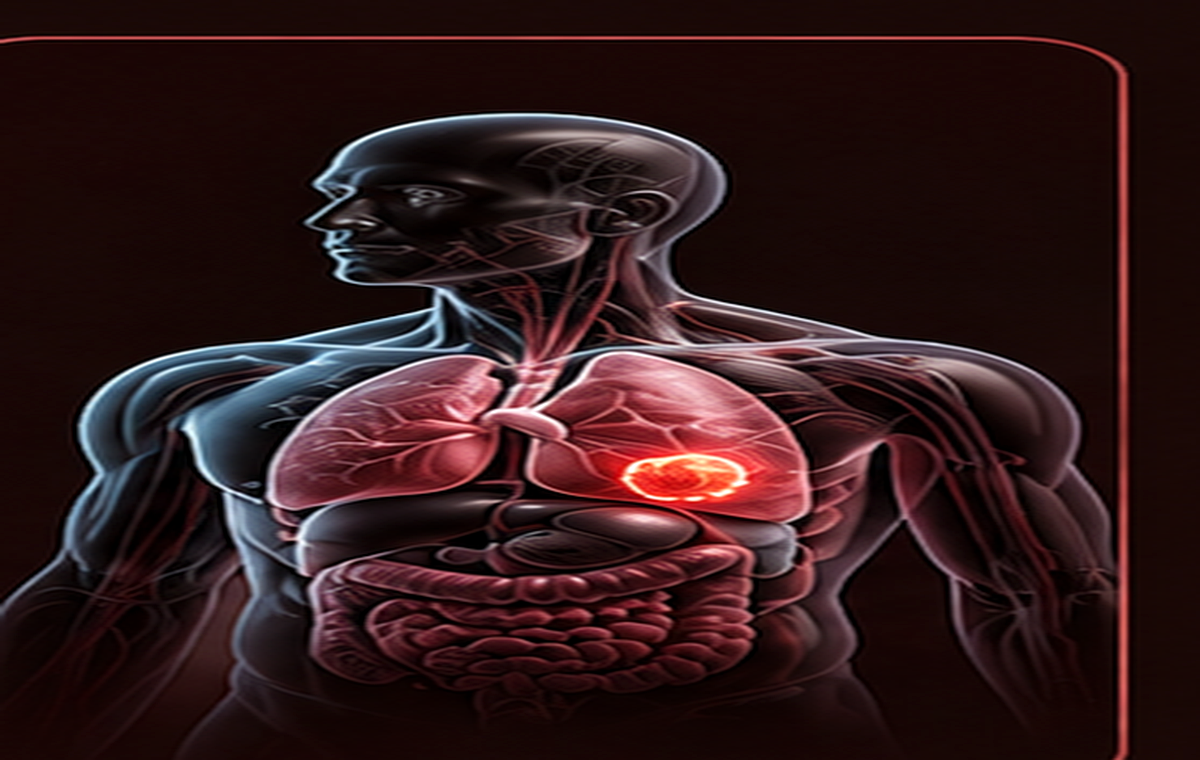
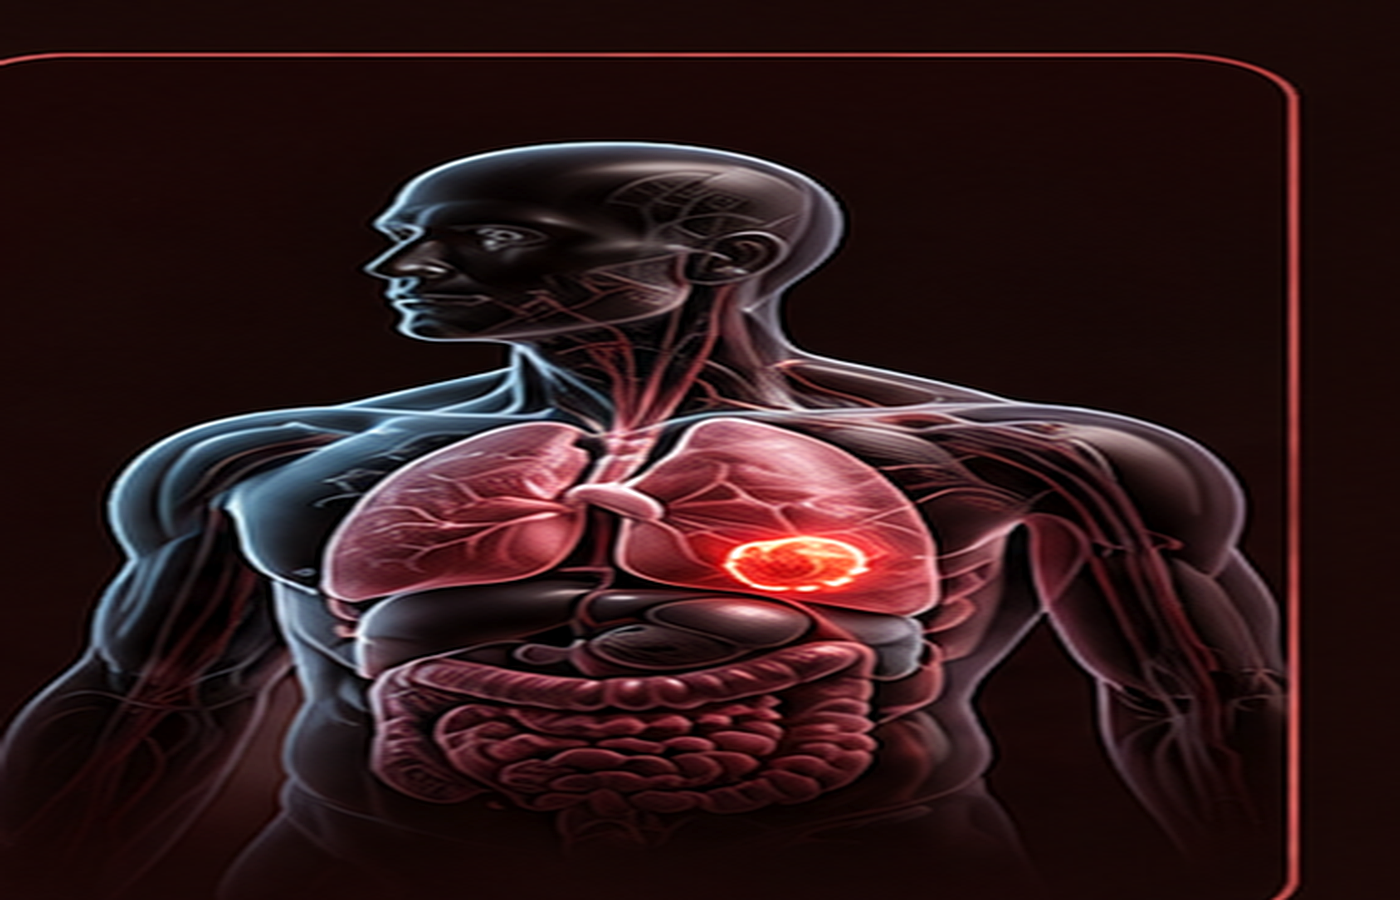
Refine homepage destination card media

Changed region(s): [[0.0, 0.0303, 0.9558, 1.0]]

diff --git a/styles.css b/styles.css
@@ -565,4 +565,16 @@ body:not(.approved-home) .filter-bar a:hover,body:not(.approved-home) .filter-ba
 .knowledge-card--with-media>div,.knowledge-card--with-media .text-link{margin-top:14px;padding-top:0}
 @media(max-width:700px){.knowledge-card--with-media{min-height:0;padding-top:178px}.knowledge-card__media{height:156px}.knowledge-card__media img{object-position:center}}
 
+/* Homepage destination cards: unified cinematic artwork integration. */
+.approved-discovery__card{background:linear-gradient(165deg,#4a070b 0%,#270306 42%,#160102 100%)}
+.approved-discovery__media,.approved-discovery__card--library .approved-discovery__media,.approved-discovery__card--courses .approved-discovery__media,.approved-discovery__card--videos .approved-discovery__media,.approved-discovery__card--ebooks .approved-discovery__media,.approved-discovery__card--ai .approved-discovery__media{top:-1px;right:-1px;left:-1px;bottom:auto;width:auto;height:45%;border-radius:17px 17px 0 0;background-repeat:no-repeat;background-size:112% auto;background-position:center 48%;filter:none}
+.approved-discovery__media::after,.approved-discovery .approved-discovery__card .approved-discovery__media::after{position:absolute;inset:-1px;content:"";background:linear-gradient(180deg,rgba(22,1,3,.36) 0%,rgba(22,1,3,0) 17%,rgba(22,1,3,0) 48%,rgba(32,2,5,.56) 76%,#180204 100%),linear-gradient(90deg,#180204 0%,rgba(24,2,4,.48) 8%,rgba(24,2,4,0) 24%,rgba(24,2,4,0) 76%,rgba(24,2,4,.5) 92%,#180204 100%),radial-gradient(ellipse at 50% 28%,rgba(255,116,101,.11),rgba(255,116,101,0) 58%)}
+.approved-discovery__card::after{background:linear-gradient(180deg,rgba(27,2,4,0) 0%,rgba(28,2,5,.08) 28%,rgba(30,2,5,.9) 51%,rgba(24,2,4,1) 72%)}
+.approved-discovery__card--library .approved-discovery__media{background-position:center 46%}
+.approved-discovery__card--courses .approved-discovery__media{background-position:center 50%}
+.approved-discovery__card--videos .approved-discovery__media{background-position:center 46%}
+.approved-discovery__card--ebooks .approved-discovery__media{background-position:center 48%}
+.approved-discovery__card--ai .approved-discovery__media{background-position:center 43%}
+@media(max-width:560px){.approved-discovery__media,.approved-discovery__card--library .approved-discovery__media,.approved-discovery__card--courses .approved-discovery__media,.approved-discovery__card--videos .approved-discovery__media,.approved-discovery__card--ebooks .approved-discovery__media,.approved-discovery__card--ai .approved-discovery__media{top:-1px;right:0;left:auto;width:138px;height:100%;border-radius:0 14px 14px 0;background-size:auto 108%;background-position:center}.approved-discovery__media::after,.approved-discovery .approved-discovery__card .approved-discovery__media::after{background:linear-gradient(90deg,#190204 0%,rgba(25,2,4,.76) 13%,rgba(25,2,4,.18) 42%,rgba(25,2,4,.28) 78%,#190204 100%),linear-gradient(180deg,#190204 0%,rgba(25,2,4,0) 14%,rgba(25,2,4,0) 80%,#190204 100%)}.approved-discovery__card--library .approved-discovery__media{background-position:50% 48%}.approved-discovery__card--courses .approved-discovery__media{background-position:50% 50%}.approved-discovery__card--videos .approved-discovery__media{background-position:50% 47%}.approved-discovery__card--ebooks .approved-discovery__media{background-position:50% 47%}.approved-discovery__card--ai .approved-discovery__media{background-position:52% 43%}}
+
 
